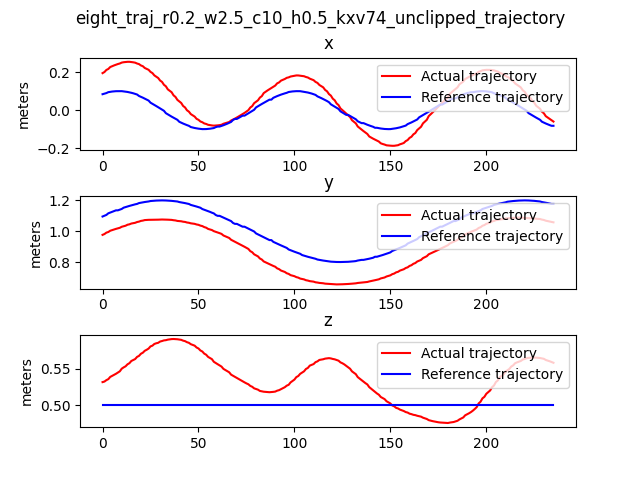
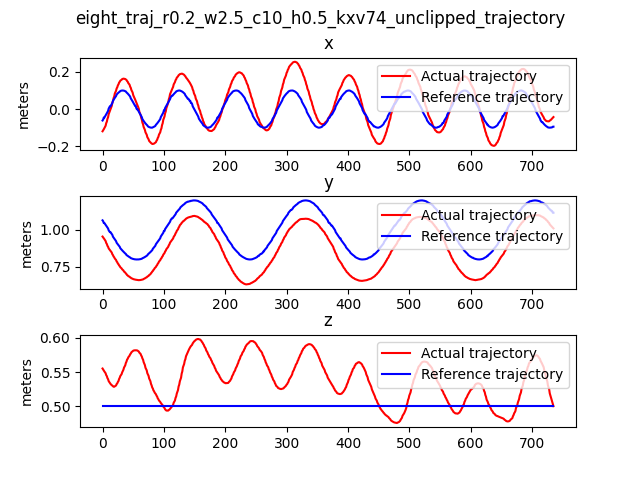
newly trained gp model in gp_final folder

diff --git a/GP/gp_advanced/acc_cmd.py b/GP/gp_advanced/acc_cmd.py
@@ -71,16 +71,21 @@ plot_path = '/Users/albusfang/Coding Projects/gp_ws/Gaussian Process/GP/gp_advan
 ##### NOTE: The 'threshold' and 'cutoff' for each dataset are calculated and displayed beneath the bag_path of the dataset ######
 ##### NOTE: Replace the 'threshold' and 'cutoff' variables in this file with the value beneath each bag_path. Please do not uncomment the values #####
 home_path = home_path + 'circle_data/'
-bag_path = home_path + 'cir_traj_r0.2_w1.5_c0.50_h0.4_kxv74_unclipped'
+# bag_path = home_path + 'cir_traj_r0.2_w1.5_c0.50_h0.4_kxv74_unclipped'
 #(500,500)
 # bag_path = home_path + 'cir_traj_r0.2_w2_c0.80_h0.4_kxv74_unclipped'
 #(500,500)
 # bag_path = home_path + 'cir_traj_r0.4_w2_c0.80_h0.4_kxv74_unclipped'
 #(500,500)
+# bag_path = home_path + 'cir_traj_r0.4_w1.5_c00_h0.5_kxv74_unclipped'
+# bag_path = home_path + 'cir_traj_r0.4_w2_c00_h0.5_kxv74_unclipped_fanoff'
+#(200, 200)
+
 
 
 
 ################## prev data ##################
+# home_path = home_path + 'prev_data/'
 # bag_path = '/Users/albusfang/Coding Projects/gp_ws/Gaussian Process/GP/data_prep/cir_traj_r0.4_w2_c0.40_h0.4_fanhigh'
 #(1200, len(x_data)-700)
 # bag_path = home_path + 'cir_traj_r0.3_w1.5_c00.4_h0.4_fanhigh'
@@ -101,13 +106,26 @@ bag_path = home_path + 'cir_traj_r0.2_w1.5_c0.50_h0.4_kxv74_unclipped'
 ########################################################################
 
 home_path = home_path.replace('circle_data', 'eight_data')
+
+
+
 # bag_path = home_path + 'eight_traj_r0.2_w2.5_c10_h0.4_kxv74_unclipped'
+# (500, 500)
 # bag_path = home_path + 'eight_traj_r0.2_w2.5_c10_h0.5_kxv74_unclipped'
+# (200,800)
 # bag_path = home_path + 'eight_traj_r0.4_w1.5_c0.80_h0.4_kxv74_unclipped'
+# (200,800)
 # bag_path = home_path + 'eight_traj_r0.4_w2.0_c1.20_h0.5_kxv74_unclipped'
+# (200,800)
 # bag_path = home_path + 'eight_traj_r0.4_w2.0_c10_h0.5_kxv74_unclipped'
+#(200,1000)
+######################## no disturbance ##################
+# bag_path = home_path + 'eight_traj_r0.4_w2.0_c00_h0.5_kxv74_unclipped_fanoff'
 
+# bag_path = home_path + 'eight_traj_r0.4_w2.5_c00_h0.5_kxv74_unclipped_fanoff'
 
+# bag_path = home_path + 'eight_traj_r0.4_w1_c00_h0.5_kxv74_unclipped_fanoff'
+# (700,1000)
 ################## previous data ##################
 # bag_path = home_path + 'eight_traj_r0.2_w1.5_c0.80_h0.4_fanhigh'
 #(threshold, cutoff) = (1200, len(x_data)-3500)
@@ -127,7 +145,6 @@ home_path = home_path.replace('circle_data', 'eight_data')
 #(threshold, cutoff) = (300, len(x_data)-600)
 # bag_path = home_path + 'eight_traj_r0.6_w1.5_c10_h0.4_fanhigh'
 #(threshold, cutoff) = (100, len(x_data)-100)
-
 
 
 # Define the topics we want to extract data from
@@ -230,21 +247,25 @@ unfiltered_acc_arr_x = np.array(unfiltered_acc_arr[threshold:cutoff,0])
 unfiltered_acc_arr_y = np.array(unfiltered_acc_arr[threshold:cutoff,1])
 unfiltered_acc_arr_z = np.array(unfiltered_acc_arr[threshold:cutoff,2])
 
+clip_val = 3
 plt.figure()
 plt.plot(range(unfiltered_acc_arr_x.size), unfiltered_acc_arr_x , 'r',label='unfiltered recorded acc')
 plt.plot(range(recorded_acc_arr_x.size),  recorded_acc_arr_x, 'b',label='Acc after filter')
+plt.ylim(-clip_val,clip_val)
 plt.legend()
 plt.show()
 
 plt.figure()
 plt.plot(range(unfiltered_acc_arr_y.size), unfiltered_acc_arr_y , 'r',label='unfiltered recorded acc')
 plt.plot(range(recorded_acc_arr_y.size),  recorded_acc_arr_y, 'b',label='Acc after filter')
+plt.ylim(-clip_val,clip_val)
 plt.legend()
 plt.show()
 
 plt.figure()
 plt.plot(range(unfiltered_acc_arr_z.size), unfiltered_acc_arr_z , 'r',label='unfiltered recorded acc')
 plt.plot(range(recorded_acc_arr_z.size),  recorded_acc_arr_z, 'b',label='Acc after filter')
+plt.ylim(-clip_val,clip_val)
 plt.legend()
 plt.show()
 #print("size of x data is: ",x.shape)

diff --git a/GP/gp_advanced/gp.py b/GP/gp_advanced/gp.py
@@ -85,18 +85,18 @@ pred_mean_x = pred_std_x = pred_mean_y = pred_std_y = pred_mean_z = pred_std_z =
 dim = 6 ## 6 input dims x,y,z,vx,vy,vz
 
 ############## keep one in eight datapoints ##############
-slice = 7
+slice = 3
 
 
 ################################### Data Prep ##########################################
 home_path = '/Users/albusfang/Coding Projects/gp_ws/Gaussian Process/GP/gp_advanced/'
 #dataset_path = home_path + 'datasets/'
-dataset_path = home_path + 'partial_data/'
+dataset_path = home_path + 'gp_final/'
 plot_path = dataset_path + 'plots/'
 # npy_path = dataset_path + 'npy_data_folder/'
 npy_path = dataset_path + 'npy_data_folder/'
-disturbance_file_path = dataset_path + 'disturbance_partial.npy'
-input_file_path = dataset_path + 'input_partial.npy'
+disturbance_file_path = dataset_path + 'disturbance_new.npy'
+input_file_path = dataset_path + 'input_new.npy'
 wind_disturbance = jnp.load(disturbance_file_path)
 input = jnp.load(input_file_path)
 
@@ -241,14 +241,14 @@ for j in range(3):
     if j ==0:
         gp_model_x = opt_posterior
         #gp_model_file_path = home_path + 'gpmodels/gp_model_x_norm3.pkl'
-        gp_model_file_path = gp_model_file_path + 'gp_model_x_norm5_full_sr20_clamped.pkl'
+        gp_model_file_path = gp_model_file_path + 'gp_model_x_norm5.pkl'
     if j ==1:
         gp_model_y = opt_posterior
         #gp_model_file_path = home_path + 'gpmodels/gp_model_y_norm3.pkl'
-        gp_model_file_path = gp_model_file_path + 'gp_model_y_norm5_full_sr20_clamped.pkl'
+        gp_model_file_path = gp_model_file_path + 'gp_model_y_norm5.pkl'
     if j == 2:
         gp_model_z = opt_posterior
-        gp_model_file_path = gp_model_file_path + 'gp_model_z_norm5_full_sr20_clamped.pkl'
+        gp_model_file_path = gp_model_file_path + 'gp_model_z_norm5.pkl'
     with open(dataset_path+gp_model_file_path, 'wb') as file:
         pickle.dump(opt_posterior, file)
     ################################################### Predicting #####################################################

diff --git a/GP/gp_advanced/load_gp.py b/GP/gp_advanced/load_gp.py
@@ -15,25 +15,26 @@ import os, sys
 gpjax_path = os.path.join(home_path+'FORESEE/GPJax')
 sys.path.append(gpjax_path)
 import gpjax as gpx
-dataset_path = home_path + 'circle_figure8_fullset/'
+# dataset_path = home_path + 'circle_figure8_fullset/'
+dataset_path = home_path + 'gp_final/'
 model_path = dataset_path + 'models/'
 # npy_data_path = dataset_path + 'npy_data_folder/'
-npy_data_path = dataset_path + 'npy_data_folder_sr20/'
+npy_data_path = dataset_path + 'npy_data_folder/'
 plot_path = dataset_path + 'testset_plots/'
 # gp_x_file = 'gp_model_x_norm5_full_sr20_clamped.pkl'
 # gp_y_file = 'gp_model_y_norm5_full_sr20_clamped.pkl'
 # gp_z_file = 'gp_model_z_norm5_full_sr20_clamped.pkl'
-gp_x_file = 'gp_model_x_norm5_full.pkl'
-gp_y_file = 'gp_model_y_norm5_full.pkl'
-gp_z_file = 'gp_model_z_norm5_full.pkl'
-with open(model_path+gp_x_file, 'rb') as f:
+gp_x_file = 'gp_model_x_norm5.pkl'
+gp_y_file = 'gp_model_y_norm5.pkl'
+gp_z_file = 'gp_model_z_norm5.pkl'
+with open(model_path+gp_y_file, 'rb') as f:
     opt_posterior = pickle.load(f)
 
 factor = 5
 
 x = jnp.load(npy_data_path + 'training_input.npy')
-y = jnp.load(npy_data_path + 'training_disturbance_x.npy')
-disturbance_x = jnp.load(npy_data_path + 'test_disturbance_x.npy')
+y = jnp.load(npy_data_path + 'training_disturbance_y.npy')
+disturbance_x = jnp.load(npy_data_path + 'test_disturbance_y.npy')
 #wind_disturbance_x = jnp.load(home_path + 'wind_disturbance_x.npy')
 # plt.figure()
 # plt.plot(disturbance_x)

diff --git a/GP/gp_advanced/plot_trajectory_ref.py b/GP/gp_advanced/plot_trajectory_ref.py
@@ -34,7 +34,7 @@ home_path = '/Users/albusfang/Coding Projects/gp_ws/Gaussian Process/GP/gp_advan
 ##### NOTE: The 'threshold' and 'cutoff' for each dataset are calculated and displayed beneath the bag_path of the dataset ######
 ##### NOTE: Replace the 'threshold' and 'cutoff' variables in this file with the value beneath each bag_path. Please do not uncomment the values #####
 home_path = home_path + 'circle_data/'
-# bag_path = home_path + 'cir_traj_r0.2_w1.5_c0.50_h0.4_kxv74_unclipped'
+bag_path = home_path + 'cir_traj_r0.2_w1.5_c0.50_h0.4_kxv74_unclipped'
 #(500,500)
 # bag_path = home_path + 'cir_traj_r0.2_w2_c0.80_h0.4_kxv74_unclipped'
 #(500,500)
@@ -67,13 +67,16 @@ home_path = home_path.replace('circle_data', 'eight_data')
 
 
 
-bag_path = home_path + 'eight_traj_r0.2_w2.5_c10_h0.4_kxv74_unclipped'
+# bag_path = home_path + 'eight_traj_r0.2_w2.5_c10_h0.4_kxv74_unclipped'
 # (500, 500)
 # bag_path = home_path + 'eight_traj_r0.2_w2.5_c10_h0.5_kxv74_unclipped'
+# (200,800)
 # bag_path = home_path + 'eight_traj_r0.4_w1.5_c0.80_h0.4_kxv74_unclipped'
+# (200,800)
 # bag_path = home_path + 'eight_traj_r0.4_w2.0_c1.20_h0.5_kxv74_unclipped'
+# (200,800)
 # bag_path = home_path + 'eight_traj_r0.4_w2.0_c10_h0.5_kxv74_unclipped'
-
+#(200,1000)
 ######################## no disturbance ##################
 # bag_path = home_path + 'eight_traj_r0.4_w2.0_c00_h0.5_kxv74_unclipped_fanoff'
 

diff --git a/GP/gp_advanced/simulation/test_tune_controller_gp.py b/GP/gp_advanced/simulation/test_tune_controller_gp.py
@@ -27,11 +27,12 @@ home_path = '/Users/albusfang/Coding Projects/gp_ws/Gaussian Process/GP/gp_advan
 # home_path = '/home/hardik/Desktop/Research/wind_disturbance_experiment/GP/gp_advanced/'
 # home_path = '/home/wind_disturbance_experiment/GP/gp_advanced/'
 
-trajectory_path = home_path + 'circle_figure8_fullset/'
+# trajectory_path = home_path + 'circle_figure8_fullset/'
+trajectory_path = home_path + 'gp_final/'
 model_path = trajectory_path + 'models/'
 
-disturbance_path = trajectory_path + 'disturbance_full.npy'
-input_path = trajectory_path + 'input_full.npy'
+disturbance_path = trajectory_path + 'disturbance_new.npy'
+input_path = trajectory_path + 'input_new.npy'
 key = random.PRNGKey(2)
 horizon = 150 #200
 dt = 0.05 #0.01
@@ -215,9 +216,9 @@ def setup_future_reward_func(file_path1, file_path2, file_path3, dynamics_type='
     return compute_reward
 
 print(model_path)
-file_path1 = model_path + "gp_model_x_norm5_full.pkl"
-file_path2 = model_path + "gp_model_y_norm5_full.pkl"
-file_path3 = model_path + "gp_model_z_norm5_full.pkl"
+file_path1 = model_path + "gp_model_x_norm5.pkl"
+file_path2 = model_path + "gp_model_y_norm5.pkl"
+file_path3 = model_path + "gp_model_z_norm5.pkl"
 
 
 gp_train_x = jnp.load(input_path)

diff --git a/GP/gp_advanced/gp_data_prep.py b/GP/gp_advanced/gp_data_prep.py
@@ -113,8 +113,8 @@ print("new input shape = ", new_input.shape)
 print("new_disturbance shape = ", new_disturbance.shape)
 
 ################## loading previous datapoints ##################
-input_file_path = home_path+ 'input_partial.npy'
-disturbance_file_path = home_path+'disturbance_partial.npy'
+input_file_path = home_path+ 'input_new.npy'
+disturbance_file_path = home_path+'disturbance_new.npy'
 
 ################## Prepare input ##################
 

diff --git a/GP/gp_advanced/simulation/test_policy.py b/GP/gp_advanced/simulation/test_policy.py
@@ -4,7 +4,8 @@ import jax
 def state_ref(t):
     pos, vel, acc = circle_pos_vel_acc( t, cir_radius[0], cir_angular_vel[0], cir_origin_x[0], cir_origin_y[0] )
     return pos.reshape(-1,1), vel.reshape(-1,1), acc.reshape(-1,1)
-policy_params = [14, 7.4]
+# policy_params = [14, 7.4]
+policy_params = [7, 4]
 @jit
 def policy( t, states, policy_params):
     '''
